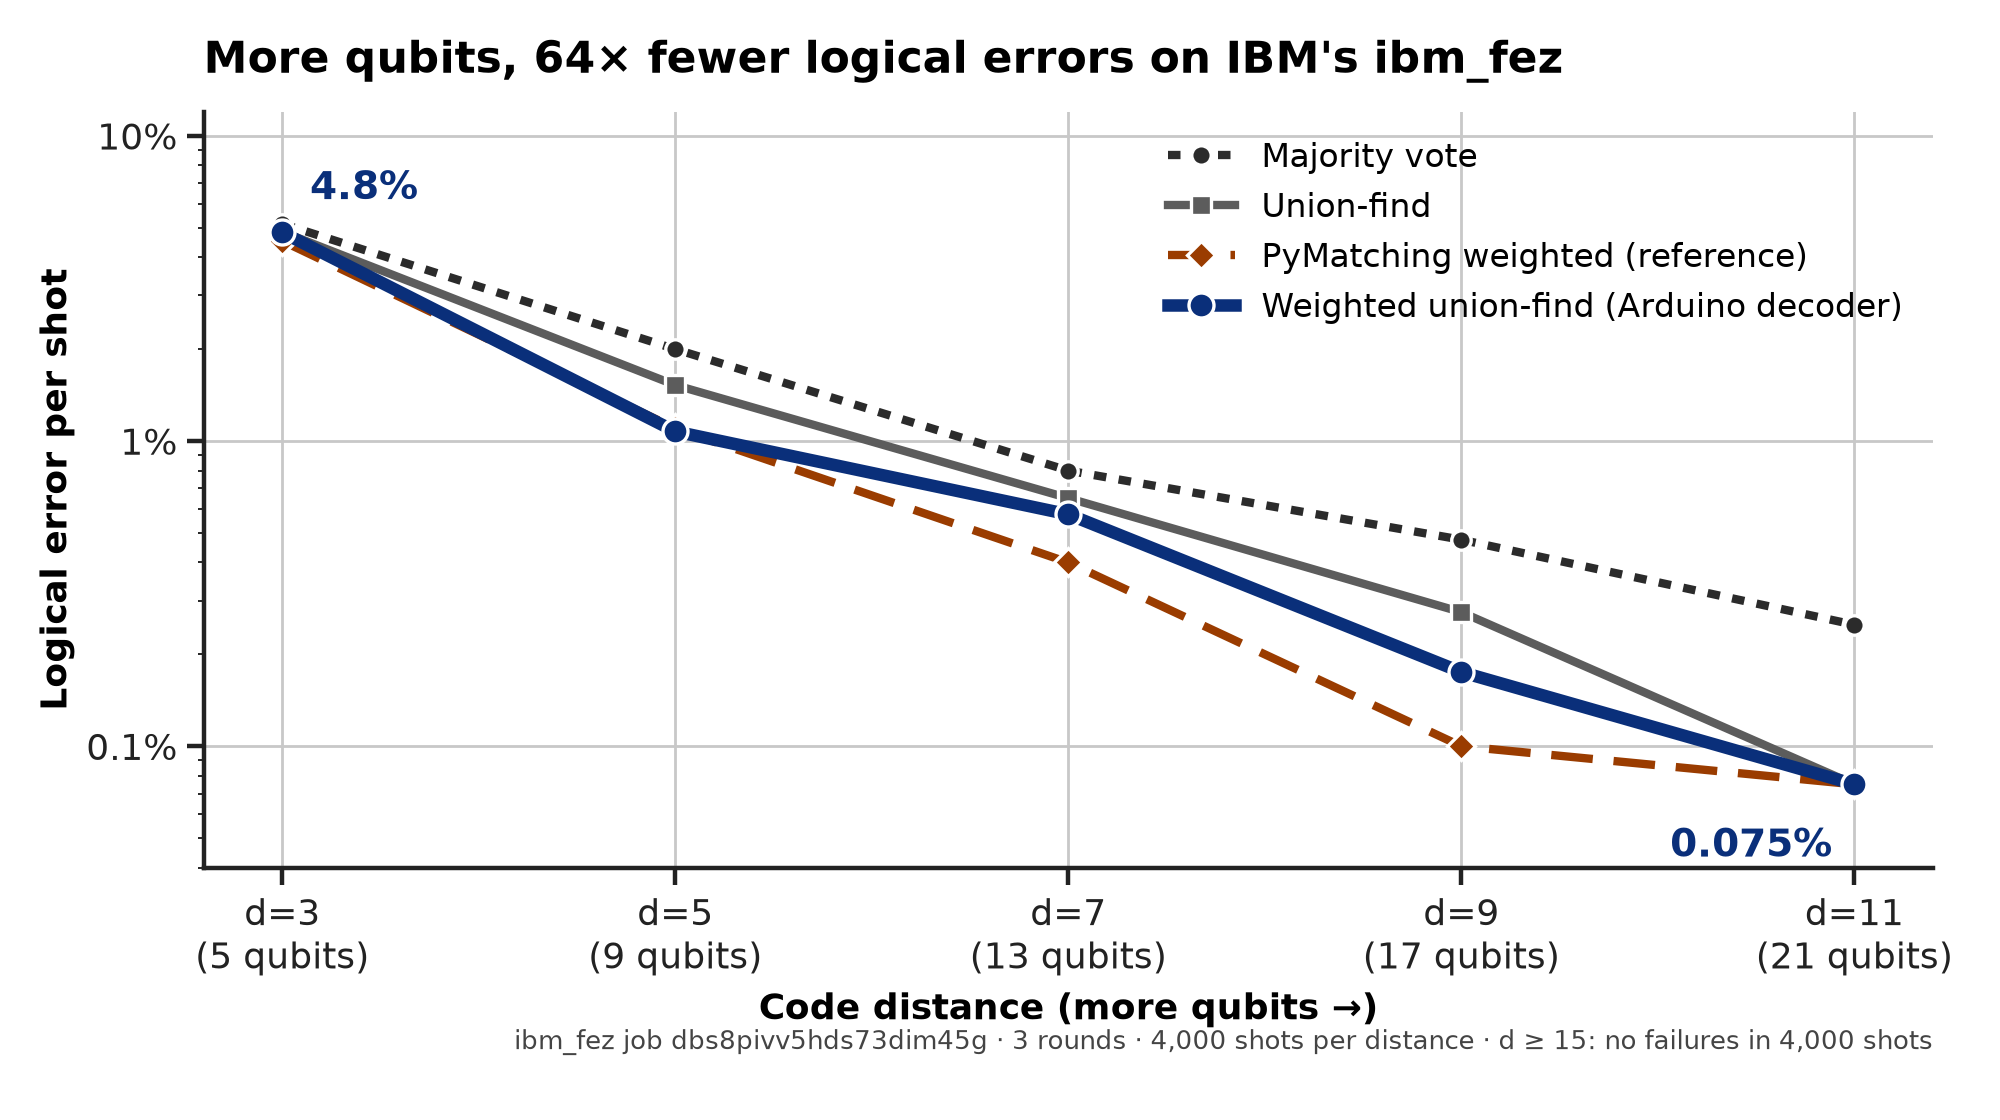
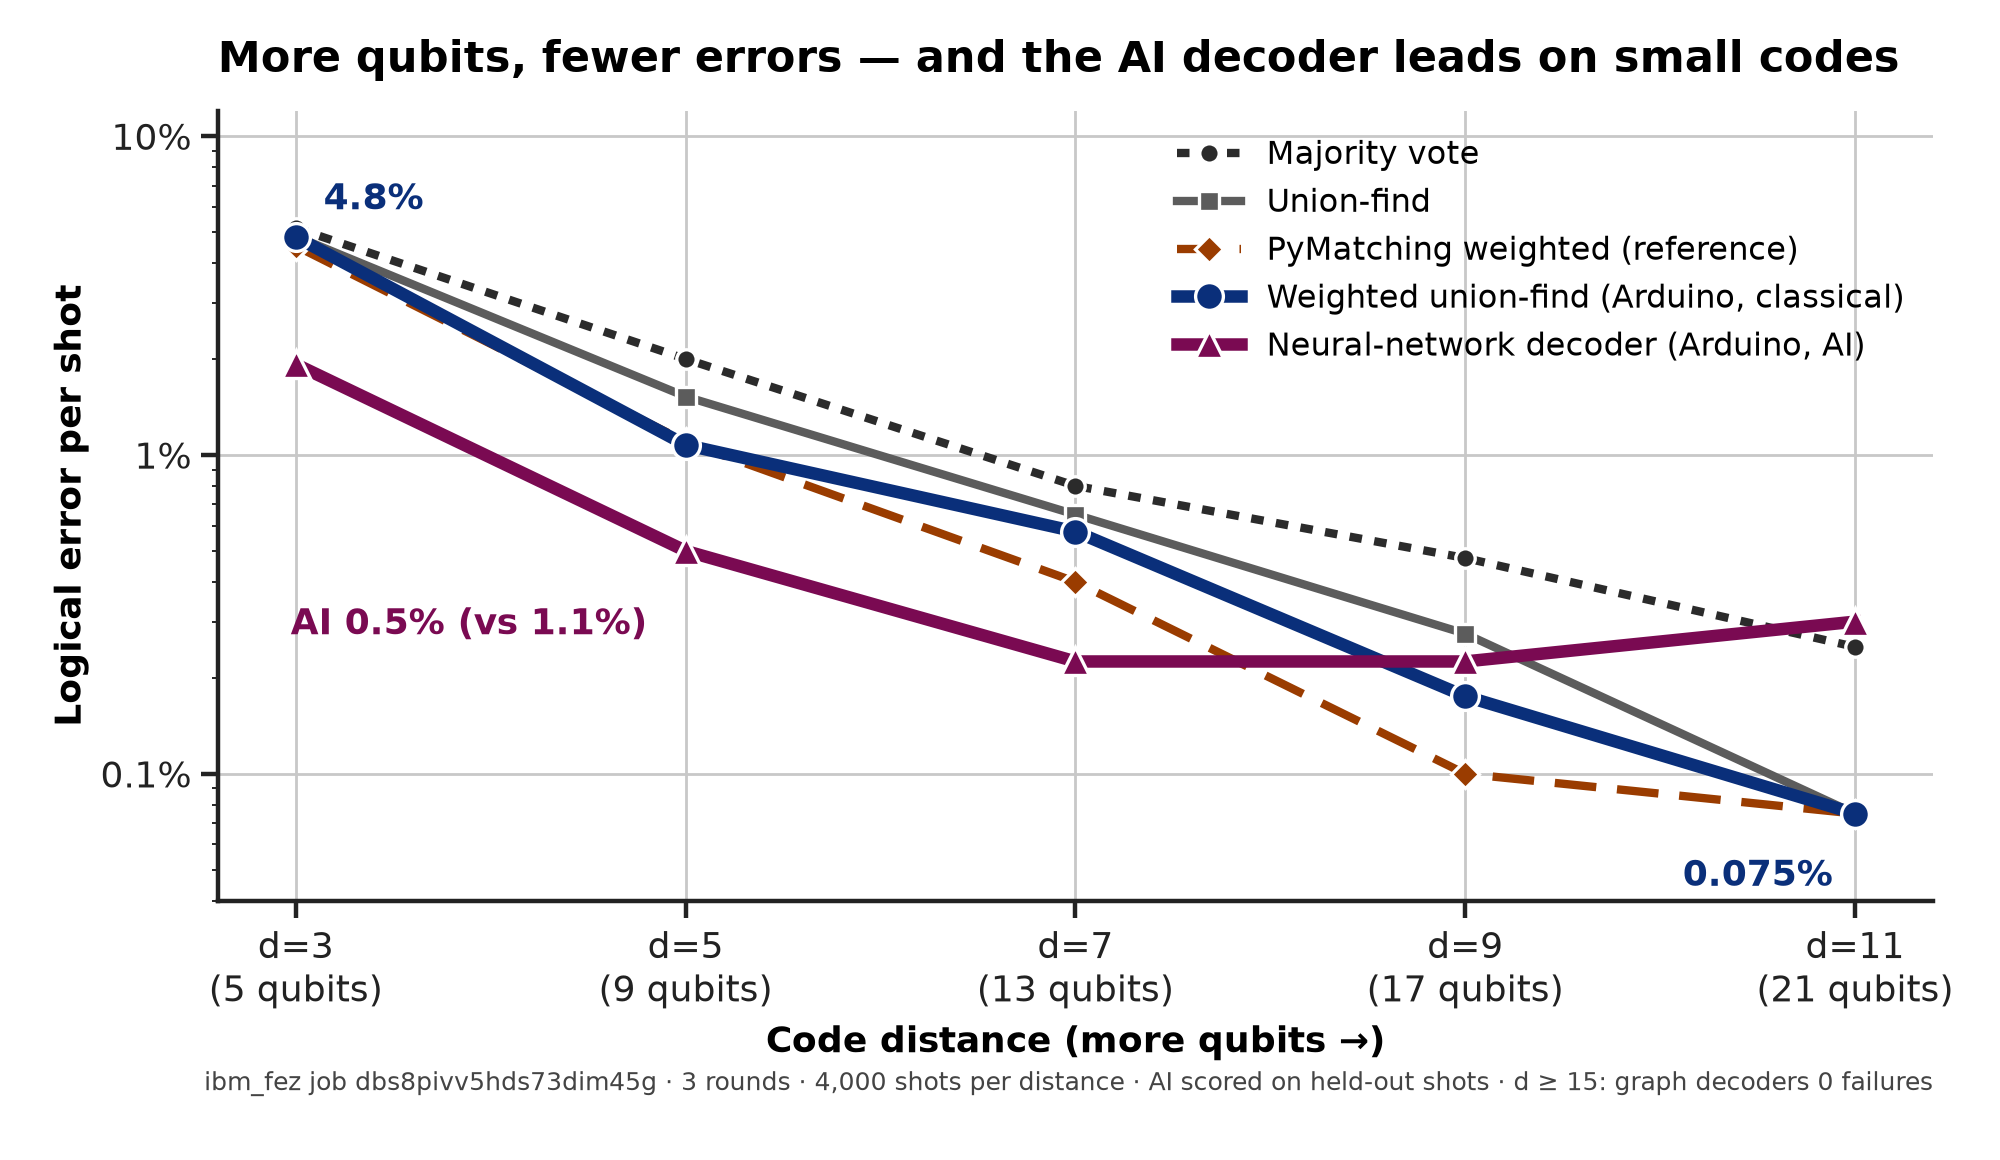
updated to readme

diff --git a/README.md b/README.md
@@ -23,7 +23,7 @@ technical details for experts are at the end.
 ## Quantum computing in one minute (no physics needed)
 
 **Quantum bits are fragile.** A normal computer bit is a 0 or a 1 and stays that way. A quantum bit (*qubit*) is so
-sensitive that heat, stray signals or simply time make it flip by accident — on today's machines, a few times in
+sensitive that heat, stray signals or simply time make it flip by accident, on today's machines, a few times in
 every hundred operations. Left alone, errors pile up and the result is garbage.
 
 **The fix: redundancy and voting.** Imagine whispering a message across a noisy room. To be safe you say it with
@@ -31,14 +31,14 @@ several people at once, and the listener takes the majority. Quantum error corre
 bit of information is spread over many physical qubits.
 
 **The catch: you can't just look.** Looking at a qubit destroys its quantum information. So instead, helper qubits
-ask indirect questions such as *"are these two neighbours still the same?"* — over and over, every few microseconds.
+ask indirect questions such as *"are these two neighbours still the same?"*, over and over, every few microseconds.
 The answers are clues; we call them **syndromes**.
 
 **The detective: the decoder.** A classical computer reads the stream of clues and works out *which* qubits most
 likely flipped, so they can be corrected. This program is called the **decoder**. It has to be:
 
-1. **accurate** — a wrong guess makes things worse, and
-2. **fast** — new clues arrive every round (about every microsecond on IBM machines). Like a supermarket cashier:
+1. **Accurate:**a wrong guess makes things worse, and
+2. **Fast:** new clues arrive every round (about every microsecond on IBM machines). Like a supermarket cashier:
    if customers arrive faster than the cashier serves them, the queue grows forever.
 
 **This project builds that decoder on an Arduino**, checks how accurate and how fast it is on real IBM data, and
@@ -63,21 +63,24 @@ The Arduino UNO Q is two computers on one board, and that is exactly how real qu
 ## What you see and hear in the demo
 
 1. **The scoreboard:** the dashboard shows real IBM results — as we use more qubits, the error rate drops (that's error correction working).
-2. **The AI:** a pink line on the chart — the neural network trained on the Arduino beats the classical decoders.
+2. **The AI:** a pink line on the chart, the neural network trained on the Arduino beats the classical decoders.
 3. **The speed test:** we turn the knob to send clues faster and faster. The Arduino keeps up… until about **9 microseconds per round**. Past that point the LED matrix fills with bars, the dashboard turns red and the buzzer growls: the queue of unsolved errors is exploding.
 
 ## Results in plain words
 
 ![Logical error vs distance](media/logical_error_vs_distance_ibm_fez.png)
 
-*How to read it:* left to right = more qubits protecting the information; down = fewer mistakes. Every line goes
-down, so error correction works on the real machine. The blue line is the Arduino's own decoder.
+*How to read it:* left to right = more qubits protecting the information; down = fewer mistakes. The lines go
+down, so error correction works on the real machine. **Blue** is the Arduino's classical decoder; **purple** is the
+neural network trained on the Arduino. On small codes (5–13 qubits) the AI makes about 2× fewer mistakes (1.8–2.4×) than any
+other decoder. On bigger codes it levels off at about 0.2–0.3%, where the classical decoders take over — so the best
+design uses the AI for small codes and the classical decoder for large ones.
 
 | What we found | Why it matters |
 |---|---|
 | **Error correction works on IBM's real chips:** spreading the information over 21 qubits instead of 5 cut mistakes from **4.8% to 0.075%** (64× fewer). | The core promise of quantum error correction, shown with a €60 board as the decoder. |
 | **The AI decoder makes up to 9.5× fewer mistakes** (typically 2–3×) than the best classical decoder on small and medium codes (up to 17 qubits), on two different IBM chips. | Learning from data beats hand-written rules, and it runs on the Arduino itself. |
-| **Why the AI wins:** on these chips a stored **1 fades into a 0 about 10–16× more often** than a 0 turns into a 1 (like a light bulb that dims, but never switches itself on). The AI learned this by itself from the data. | The Arduino doubles as a diagnostic tool: it discovered real physical behaviour of each chip — including one qubit that flips 31% of the time. |
+| **Why the AI wins:** on these chips a stored **1 fades into a 0 about 10–16× more often** than a 0 turns into a 1 (like a light bulb that dims, but never switches itself on). The AI learned this by itself from the data. | The Arduino doubles as a diagnostic tool: it discovered real physical behaviour of each chip, including one qubit that flips 31% of the time. |
 | **Speed limit: about 9 microseconds per round** for the AI decoder on the Arduino, as fast as the fastest classical decoder we built. | Too slow for IBM's superconducting chips (~1 µs per round), but **fast enough for trapped-ion and neutral-atom quantum computers**, whose rounds take roughly 100 µs to a few milliseconds. |
 | **We made the classical decoder 2.4–4× faster** on the microcontroller with identical answers. | Every microsecond counts in real-time control. |
 
